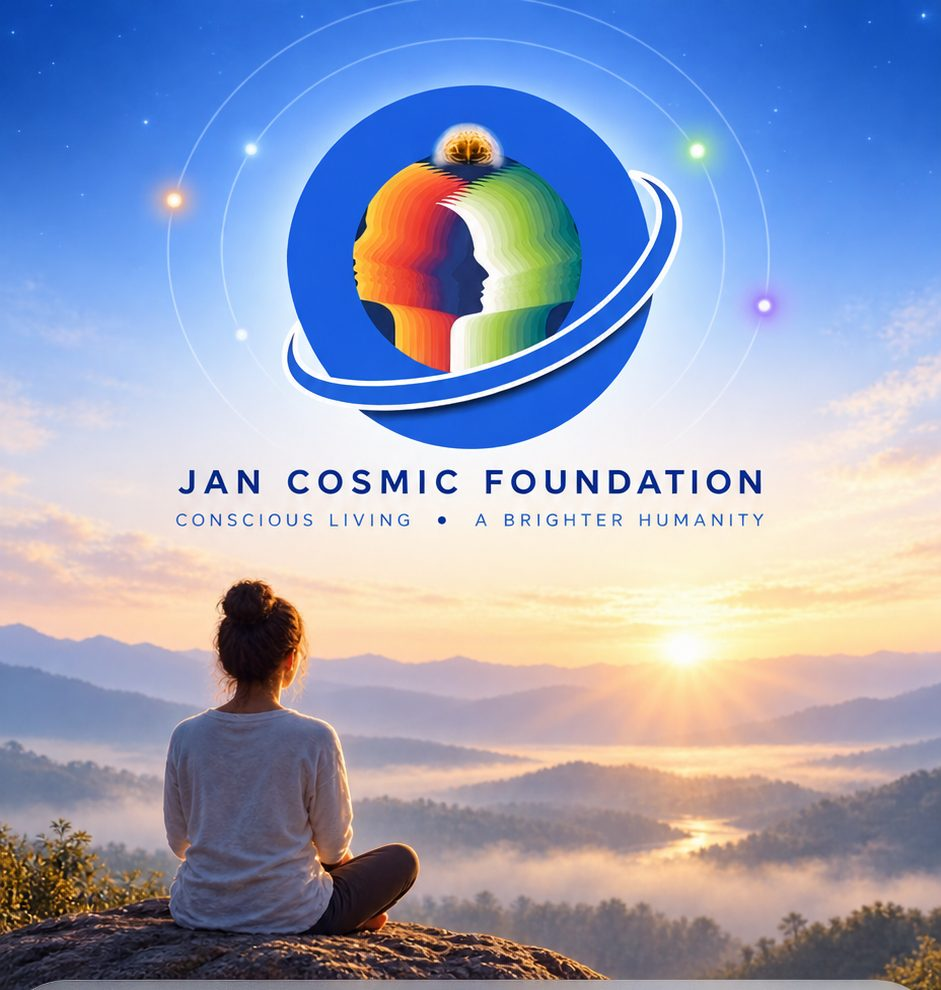
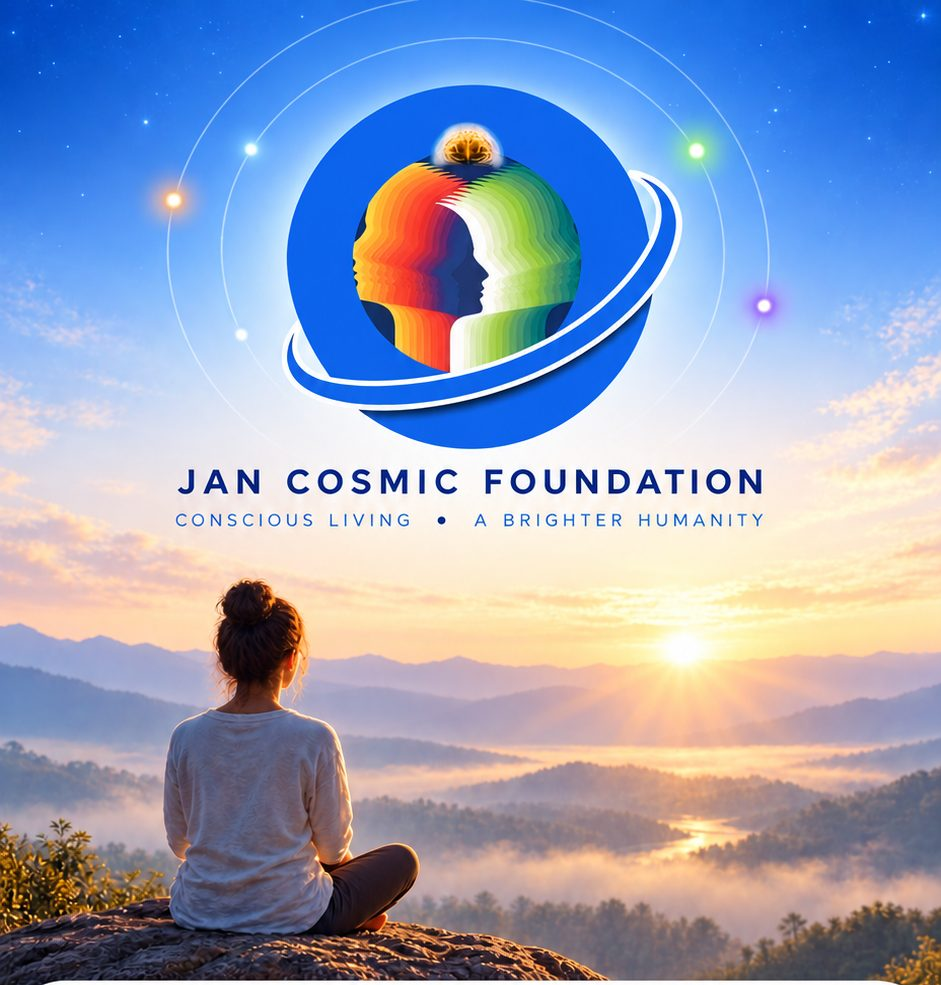
Sync welcome + InnerSpace onboarding with updated design comps
Re-cropped welcome_hero.jpg and onboard_innerspace.jpg from the cleaned
comps (no more render artifacts), fixed the page-2 subtitle copy to the
final wording, and made the welcome panel slightly more opaque to match.

diff --git a/apps/mobile/lib/features/onboarding/welcome_screen.dart b/apps/mobile/lib/features/onboarding/welcome_screen.dart
@@ -52,8 +52,8 @@ class WelcomeScreen extends ConsumerWidget {
                       begin: Alignment.topCenter,
                       end: Alignment.bottomCenter,
                       colors: [
-                        Colors.white.withValues(alpha: 0.86),
-                        JcfColors.skySurface.withValues(alpha: 0.96),
+                        Colors.white.withValues(alpha: 0.94),
+                        JcfColors.skySurface.withValues(alpha: 0.98),
                       ],
                     ),
                   ),

diff --git a/apps/mobile/lib/features/onboarding/onboarding_screen.dart b/apps/mobile/lib/features/onboarding/onboarding_screen.dart
@@ -23,7 +23,7 @@ const _pages = <_Page>[
   _Page(
     'assets/images/onboard_innerspace.jpg',
     'Go deeper with InnerSpace',
-    'Build a steady practice. Follow your progress\nand move through a guided path of inner study.',
+    'Build a steady practice, follow your progress\nand move through a guided path of inner study.',
   ),
   _Page(
     'assets/images/onboard_serve.jpg',
